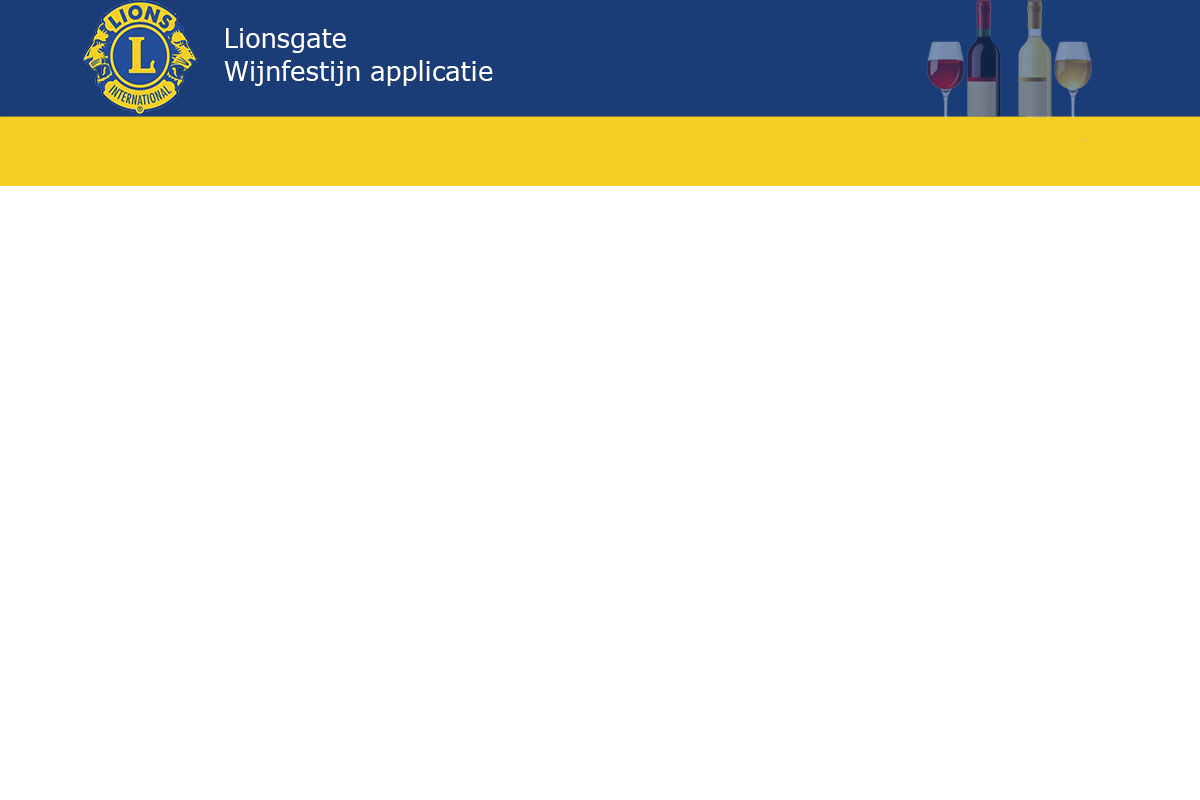
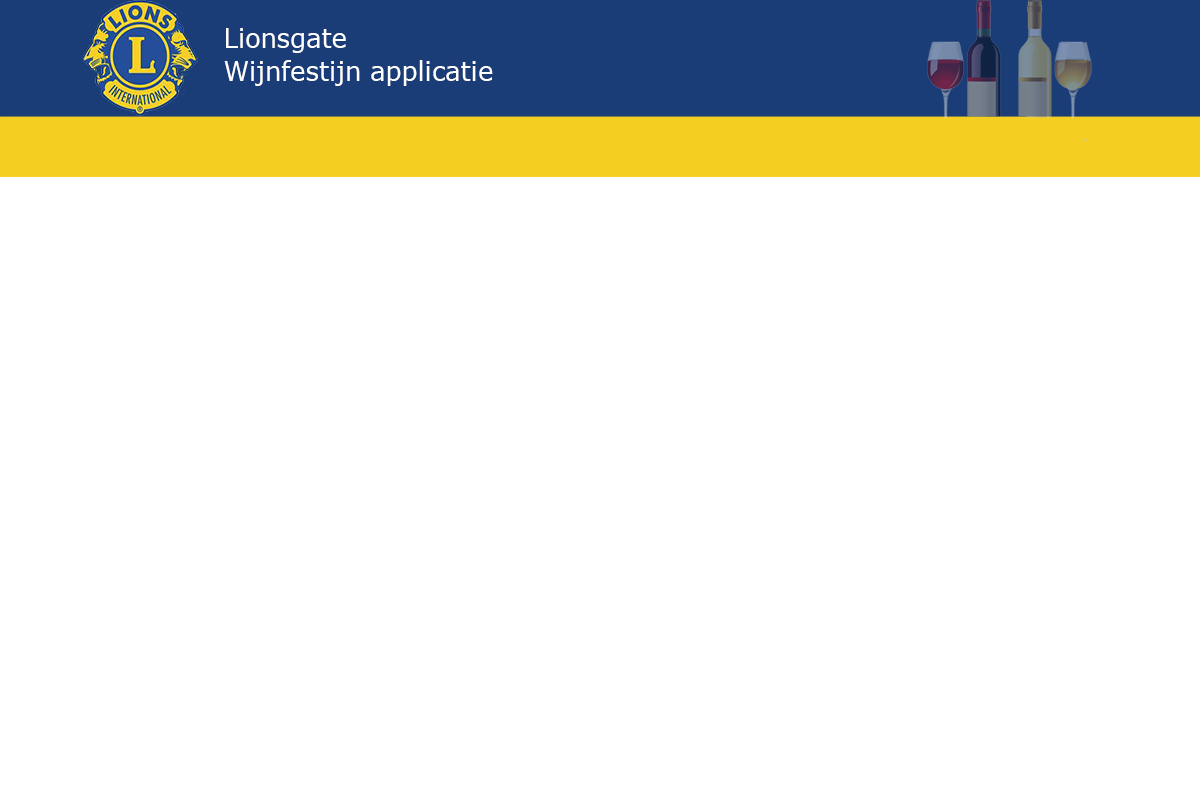
navBar juist positie+ size. Styles package verwijderd

Changed region(s): [[0.0, 0.2188, 1.0, 0.25]]

diff --git a/src/style/style.css b/src/style/style.css
@@ -1,3 +1,6 @@
+.root {
+	-fx-font-family: "verdana";
+}
 #background {
     -fx-background-image: url("../images/defaultBG.png");
     -fx-background-position: top;
@@ -6,6 +9,13 @@
     -fx-background-image: url("../images/defaultBG.png");
     -fx-background-position: top;
 }
+.nav_item{
+	-fx-background-color: transparent;
+	-fx-border-width: 0px 1px 0px 0px;
+	-fx-border-color: #000000;
+	-fx-font-size: 31;
+}
+
 /* 
 .otherBackground {
     -fx-background-image: url("../images/buildings_plain.jpg");

diff --git a/src/NavigationController.java b/src/NavigationController.java
@@ -1,14 +1,18 @@
 import javafx.collections.FXCollections;
 import javafx.collections.ObservableList;
+import javafx.geometry.Pos;
 import javafx.scene.control.Button;
 import javafx.scene.control.ComboBox;
+import javafx.scene.layout.AnchorPane;
+import javafx.scene.layout.GridPane;
 import javafx.scene.layout.HBox;
 
-public class NavigationController extends HBox implements ControlledScreen{
+public class NavigationController extends AnchorPane implements ControlledScreen{
 	private Button homeButton, mailButton, customersButton, debtorsButton;
 	private ComboBox<String> orderMenu;
 	private ObservableList<String> orderOptions;
 	private ScreensController screensController;
+	private String ORDERLISTID;
 	
 	@Override public void setSchermManager(ScreensController schermController) {
 		this.screensController = screensController;
@@ -21,11 +25,15 @@ public class NavigationController extends HBox implements ControlledScreen{
 	
 	private void createMenu(){
 		//Home Button
+		ORDERLISTID = Applet.getOrderlistid();
+		GridPane navGrid = new GridPane();
+		navGrid.setVgap(58);
+		HBox hbButtons = new HBox();
 		homeButton = new Button("Home");
+		
 		homeButton.getStyleClass().add("nav_item");
 		homeButton.setOnAction(e -> {
 			
-			screensController.setScherm(Applet.getHomeid());
 		});
 		//Mail Button
 		mailButton = new Button("Mail Menu");
@@ -40,10 +48,10 @@ public class NavigationController extends HBox implements ControlledScreen{
 		//Debtors Button
 		debtorsButton = new Button("Debiteuren Menu");
 		debtorsButton.getStyleClass().add("nav_item");
-		
-		getStylesheets().add("/Styles/style.css");
-		
-		getChildren().addAll(homeButton, mailButton, orderMenu, customersButton, debtorsButton);
+		hbButtons.getChildren().addAll(homeButton,mailButton, orderMenu, customersButton,debtorsButton );
+		hbButtons.setAlignment(Pos.CENTER_RIGHT);
+		navGrid.add(hbButtons, 0, 2);
+		getChildren().add(navGrid);
 	}
 	
 	

diff --git a/src/Applet.java b/src/Applet.java
@@ -9,14 +9,14 @@ public class Applet extends Application {
     private static ScreensController screenController;
     private NavigationController navigationController;
     private static final String HOMEID = "home";
-    private static final String ORDERLISTID = "orderlist";
+    static final String ORDERLISTID = "orderlist";
     
     public void start(Stage stage) {
     	//maakt de controller voor de schermen aan, handelt het display van de schermen af.
         screenController = new ScreensController();
         navigationController = new NavigationController();
         screenController.schermLaden(Applet.getHomeid(), new HomeView(navigationController));
-        screenController.schermLaden(Applet.ORDERLISTID, new OrderListView());
+        screenController.schermLaden(Applet.getOrderlistid(), new OrderListView(navigationController));
         //zet wel scherm er actief moet zijn
         screenController.setScherm(Applet.getHomeid());
         //Voor jou sander scherm sander, comment hoofdscherm weg en enable deze

diff --git a/src/OrderListView.java b/src/OrderListView.java
@@ -17,7 +17,7 @@ public class OrderListView extends AnchorPane implements ControlledScreen {
     private TextField txtInput;
     private ImageView ivExample;
 
-    public OrderListView() {
+    public OrderListView(NavigationController navigationController) {
         maakView();
     }
 
